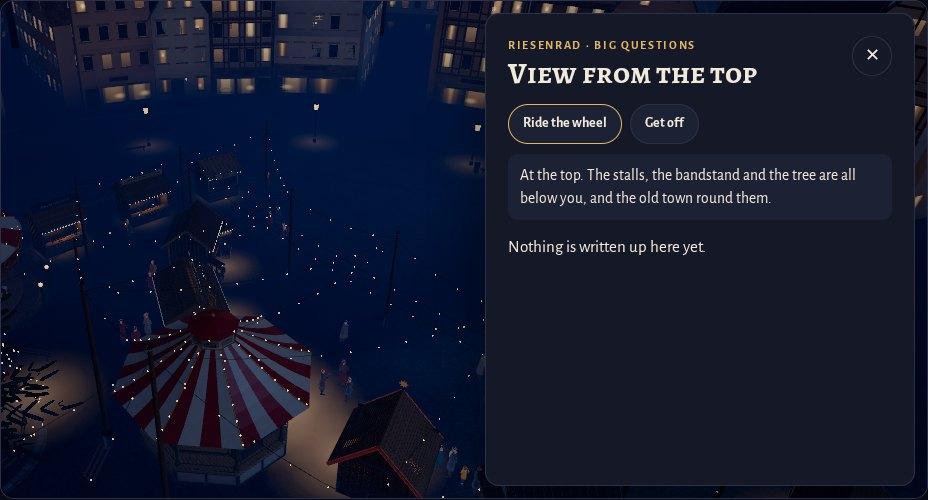
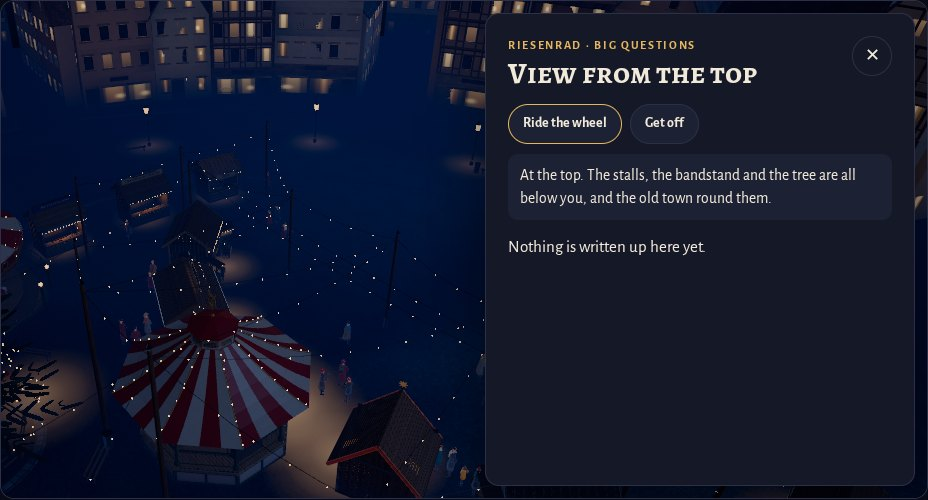
Round 2: engineer, lighting and writer judged; BUILD answers on bandstand players and cam_cat
Lighting and writer Ship/Ship. Engineer Improve only on the content gate
and GPU frame time, which wait on Mac.

Claude-Session: https://claude.ai/code/session_01KJfU3a1ZNRu682uWq35pyk

diff --git a/site/src/main.js b/site/src/main.js
@@ -154,7 +154,7 @@ async function boot() {
     crowdSay: (text, center, radius) => crowd.say(text, center, radius),
     togglePlay: () => togglePlay(),
     frame: (o) => frameRegion(o),
-    keyAt: (center, facing) => key?.aim(center, facing),
+    keyAt: (center, facing) => (center ? key?.aim(center, facing) : key?.follow(market.places[panel.current])),
     flyBack: (v) => { if (!rig.riding && v) rig.flyTo(v); },
   });
 

diff --git a/site/src/actions/items/books.js b/site/src/actions/items/books.js
@@ -52,6 +52,8 @@ export function createBooks(ctx) {
     if (open?.n === n) { close(); return; }
     if (item?.busy) return;
     if (open) close();
+    // the key light was turned to a shelf: back to the counter, where the book will stand open
+    if (shelfOpen) { shelfOpen = null; ctx.keyAt?.(null); }
     const d = describe(n);
     sfx('page');
     const text = d.mac

diff --git a/review/round-2/engineer/NOTES.md b/review/round-2/engineer/NOTES.md
@@ -54,7 +54,9 @@ is done and the rest waits on the role that owns it.
 3. **The reading view at 960 px and below.** It is now a sheet along the bottom (at most 44% of the screen height,
    46% on a phone), not a panel over the right side. This applies at 960 px wide and below, and on any screen taller
    than it is wide. Once the book is out, the camera comes to it (`main.js` `frameRegion`), and the picture moves up
-   so the book stands in the free part above the sheet. There it can be clicked again to put it back. When the book
+   so the book stands in the free part above the sheet. There it can be clicked again to put it back. While the
+   sheet is open the side panel steps aside (`html.reading`), so nothing covers the book. The reading view is modal,
+   so the panel's buttons could not be used at that moment anyway. When the book
    closes, the camera goes back to where it was. Above 960 px nothing changes: the open book stands beside the
    reading view. The smoke run now asserts this at 960 × 640 (`item_books_sheet_960.jpg`) and on a phone
    (`phone_books_reading.jpg`). The run no longer falls back to the close button.
@@ -63,7 +65,8 @@ is done and the rest waits on the role that owns it.
    Bücherstand panel has a new row, "Look along a shelf", with one button per category, labelled in German. A button
    flies to `cam_cat_<key>` when the stall has one. Without one, the view is worked out from the section's own
    books: square to the shelf, from the side the stall's close-up looks from, and far enough back that every spine
-   of the section fits the part of the screen the panel leaves free. The smoke run checks that every physics and
+   of the section fits the part of the screen the panel leaves free. On the lite market the close-up key light
+   turns to that shelf, because the side racks face away from the stall's own lights. The smoke run checks that every physics and
    craft spine is in that free part at 960 px, and every craft spine above the sheet on a phone
    (`item_books_shelf_craft_960.jpg`, `phone_books_shelf_craft.jpg`). Proposed text for BUILD.md, "Scene
    conventions":
@@ -92,7 +95,7 @@ is done and the rest waits on the role that owns it.
 - **The content gate is on for every deploy.** `pages.yml` sets `STRICT_CONTENT: '1'`; it is no longer a repository
   variable. The build fails while content/*.md holds a `[[Mac: ...]]` note, a `<!-- check -->` or `[check]` marker, or a
   book page marked `review: check`. **Today that stops the deploy**: about, contact, music, projects, questions, reading
-  and writing carry 18 notes and 18 check markers (build of 4 October, 09:40), and 35 book pages are still `review: check`. This is the
+  and writing carry 18 notes and 15 check markers (pass 2, `npm run content:check`), and 35 book pages are still `review: check`. This is the
   intended state: nothing unconfirmed reaches the public site. The writer and Mac clear the markers to publish.
   `npm run build` without the variable still builds locally, with the notes left out.
 - **The unconfirmed book list is not reinstated** (`plugins/market.js`). Round 1's "On the shelf in the market"
@@ -300,40 +303,47 @@ the vendor can check their rebuild against it.
 
 ## Verification
 
-All runs are on the production build of this last pass (`npm run build`, notes hidden), served from a copy of `dist/`
-by `tests/smoke.mjs` on SwiftShader. The machine is shared, with a load average of 9 to 14. `npm ci && npm run build`
-succeeds. `npm run test:unit` passes all its checks, and `npm run budget -- --strict` passes.
+Pass 2 (4 October, 09:45–11:15). Every run used the production build (`npm run build`, notes hidden), served from a
+copy of `dist/` by `tests/smoke.mjs` on SwiftShader. The machine was shared, with a load average of 3 to 9.
+`npm ci && npm run build` succeeds. `npm run test:unit` passes 58/58, and `npm run budget -- --strict` passes.
+`STRICT_CONTENT=1 npm run build` fails on the content gate, as intended.
 
 | Smoke section | Result | Console errors |
 |---|---|---|
-| unit (inside the smoke run) | 55/55 | none |
 | shots, items, audio (full market, 1280 px) | 45/45 | none |
-| interact (lite, 960 × 640: every panel action, both rides, snow, reset, keyboard, clicks in 3D, the reading view) | 49/49 | none |
-| lite, phone (reduced motion and touch), missing models | all passed | none |
+| interact (lite, 960 × 640: every panel action, both rides, snow, reset, keyboard, clicks in 3D, the reading sheet, both shelf views) | 54/54 | none |
+| phone (reduced motion, touch, the craft shelf and a tapped book above the sheet) | 10/10 | none |
+| lite | 5/5 | none |
+| missing models | 6/6 | none |
 | plain.html and the 3D page's links and credits | 14/14 | none |
 
-Each section ran in its own invocation, so two of them could share the machine. Earlier runs in this pass found
-three things, all fixed before the runs above:
+The interact and phone sections ran again on the final build, after the last two changes (the panel steps aside
+while the sheet is open, and the key light goes back to the counter when a book opens). The full-market section
+ran on the build before those two changes. Neither change touches the full market at 1280 px.
 
-- **Stall clicks fell through** on merged stall bodies. This was a real bug, fixed in the picker (see above).
-- **The wrong spine opened** when a hovered spine was lifted: a click could land on its neighbour's edge. Also a real
-  bug. A click now goes to the hovered item when the ray still meets it within 8 cm of the first hit.
-- **plain.html counted 8 sections**: the book notes were wrapped in a `<section>`. They are a `<div role="region">`
-  now.
+New in pass 2:
 
-At 960 px the reading view covers the open book, so the smoke run closes it with the view's own button there. At
-1280 px the open book stands beside the view (`item_books_open.jpg`, `item_books_category.jpg`).
+- at 960 px the reading view is a bottom sheet, and the open book stands above it, where it can be clicked again to
+  put it back (no fallback to the close button any more);
+- the Bücherstand panel has one shelf button per category, and the physics and craft views put every spine of
+  their section in the free part of the picture;
+- on a phone, the craft shelf is framed above the panel, and a tapped book opens above its reading sheet;
+- unit checks for `content:check`, the bandstand players charged as person variants, and shared textures charged in
+  equal parts.
 
-What the smoke run asserts for the items:
+What the smoke run asserts for the items (unchanged):
 
 - the ladle, bottle, glass and sausage nodes move, and the neighbouring sausage does not;
 - the opened book is the one clicked (title, author, slug), and its reading view shows its own page;
 - the mug and glass end full, and a roll gets its sausage.
 
-The previews in this folder are from these runs: the home view (full, snow, lite), the Glühwein, Bücherstand and
-bandstand panels, one close-up per item action (ladle, bottle, pouring, Prost, turning, bun, an open pick and an open
-category book with its reading view, a Lebkuchen heart), both rides, the phone views, the missing-models stand-ins
-and plain.html.
+Previews in this folder:
+
+- retaken this pass: the home view (full, snow, lite); the Glühwein, Bücherstand and bandstand panels; one
+  close-up per item action (ladle, bottle, pouring, Prost, turning, bun, an open pick, an open category book, a
+  Lebkuchen heart); both rides; the phone views; the missing-models stand-ins; plain.html;
+- new this pass: `item_books_sheet_960.jpg`, `item_books_shelf_craft_960.jpg`, `phone_books_shelf_craft.jpg` and
+  `phone_books_reading.jpg`.
 
 ## Budgets (`npm run budget`)
 

diff --git a/docs/BUILD.md b/docs/BUILD.md
@@ -64,6 +64,7 @@ Don't commit; the market owner commits and pushes.
   - `bulbs_<n>`: a mesh of fairy bulbs. Its material is named `bulb_warm` or `bulb_cold` and is emissive. The engine makes it glow with bloom.
   - `slot_<name>`: an empty where props go. Stalls must provide `slot_counter` (on the counter top, centred), `slot_shelf_1` and `slot_shelf_2` (back shelves), `slot_vendor` (standing spot behind the counter), `slot_sign` and `slot_front` (ground in front of the counter).
   - `cam_view`: an empty where the camera goes when a visitor enters this place. It looks toward `cam_target`.
+  - `cam_cat_<key>` / `cam_cat_<key>_target`: optional close-up camera and target for one Bücherstand category section, used on narrow screens and when a book in that section opens.
   - `act_<name>`: a node that an action animates (for example `act_tap_0`, `act_pot_lid`, `act_book_12`, `act_grill`).
   - `rot_<name>`: a part that the engine spins (for example `rot_wheel` or `rot_platform`). Gondolas are `gondola_<n>` and horses are `horse_<n>`.
   - `snow_<n>`: snow caps that the engine shows only when snow is on.
@@ -100,7 +101,7 @@ The Bücherstand (Reading) holds Mac's 55 Audible books, grouped into the six ca
 | Section stall with its props | 60k | 3 MB |
 | Deco stall | 20k | 1 MB (shares the kit's textures where possible) |
 | Ferris wheel / carousel | 80k each | 3 MB each |
-| Bandstand with instruments | 50k | 2 MB |
+| Bandstand with instruments (band players count as person variants, not against this) | 50k | 2 MB |
 | Square ground, lamps, string-light poles | 40k | 3 MB |
 | Town ring (all buildings) and church | 150k | 5 MB |
 | One person variant | 5k | 0.4 MB (the engine instances them) |

diff --git a/review/round-2/engineer/JUDGES.md b/review/round-2/engineer/JUDGES.md
@@ -1,0 +1,14 @@
+# Judges on engineer, round 2 pass 2
+
+## Improve
+
+Failed:
+- Deploy is actually shippable: By design, the strict content gate blocks every deploy: 18 notes, 15 markers and 35 book pages are still marked review: check. Frame time on a real GPU has not been measured.
+
+Fixes:
+- Writer and Mac: clear the 18 notes, 15 check markers and 35 book pages marked review: check, using npm run content:check, so the strict gate lets the deploy through.
+- Mac: run npm run perf on a real GPU and fix any view that misses its target before launch.
+- Market owner: confirm in BUILD.md that band players count as person variants, or have the ride builder cut about 17k triangles from the bandstand. Also add the cam_cat_<key> rule.
+- Vendor: ship act_ nodes for the deco goods to replace the Lebkuchen hearts the code makes as stand-ins.
+- Ride builder: wire up or remove the unused instr_sax_stand.glb. Lighting designer: light the dark side racks in the full market's bookshop.
+- Engineer: commit the uncommitted changes to books.js, main.js, NOTES.md and the previews.

diff --git a/review/round-2/lighting/JUDGES.md b/review/round-2/lighting/JUDGES.md
@@ -1,0 +1,16 @@
+# Judges on lighting, round 2 pass 2
+
+## Ship
+
+Failed:
+- Real-GPU frame time measured: Not measured. The adaptive MSAA fallback at 16.7 ms helps, but the number is still unverified
+
+Fixes:
+- Run perf.mjs --gpu on Mac's laptop and record the p50; set full msaa=2 if it is over 16.7 ms
+- Engineer: add the lighting.raw.focusPlace(id/null) calls in main.js openPlace and the close/reset paths
+- Bake AO into the test-bench stall or switch the bench to the shipped stall
+
+## Ship
+
+Failed:
+- Real-GPU frame time measured: Not measured (no GPU on this machine); mitigated by the adaptive step at settings adaptiveMs [16.7, 18.2] (index.js:412-430 drops MSAA 4x -> 2x), and README gives the laptop perf.mjs command.

diff --git a/review/round-2/writer/JUDGES.md b/review/round-2/writer/JUDGES.md
@@ -1,0 +1,5 @@
+# Judges on writer, round 2 pass 2
+
+## Ship
+
+## Ship
